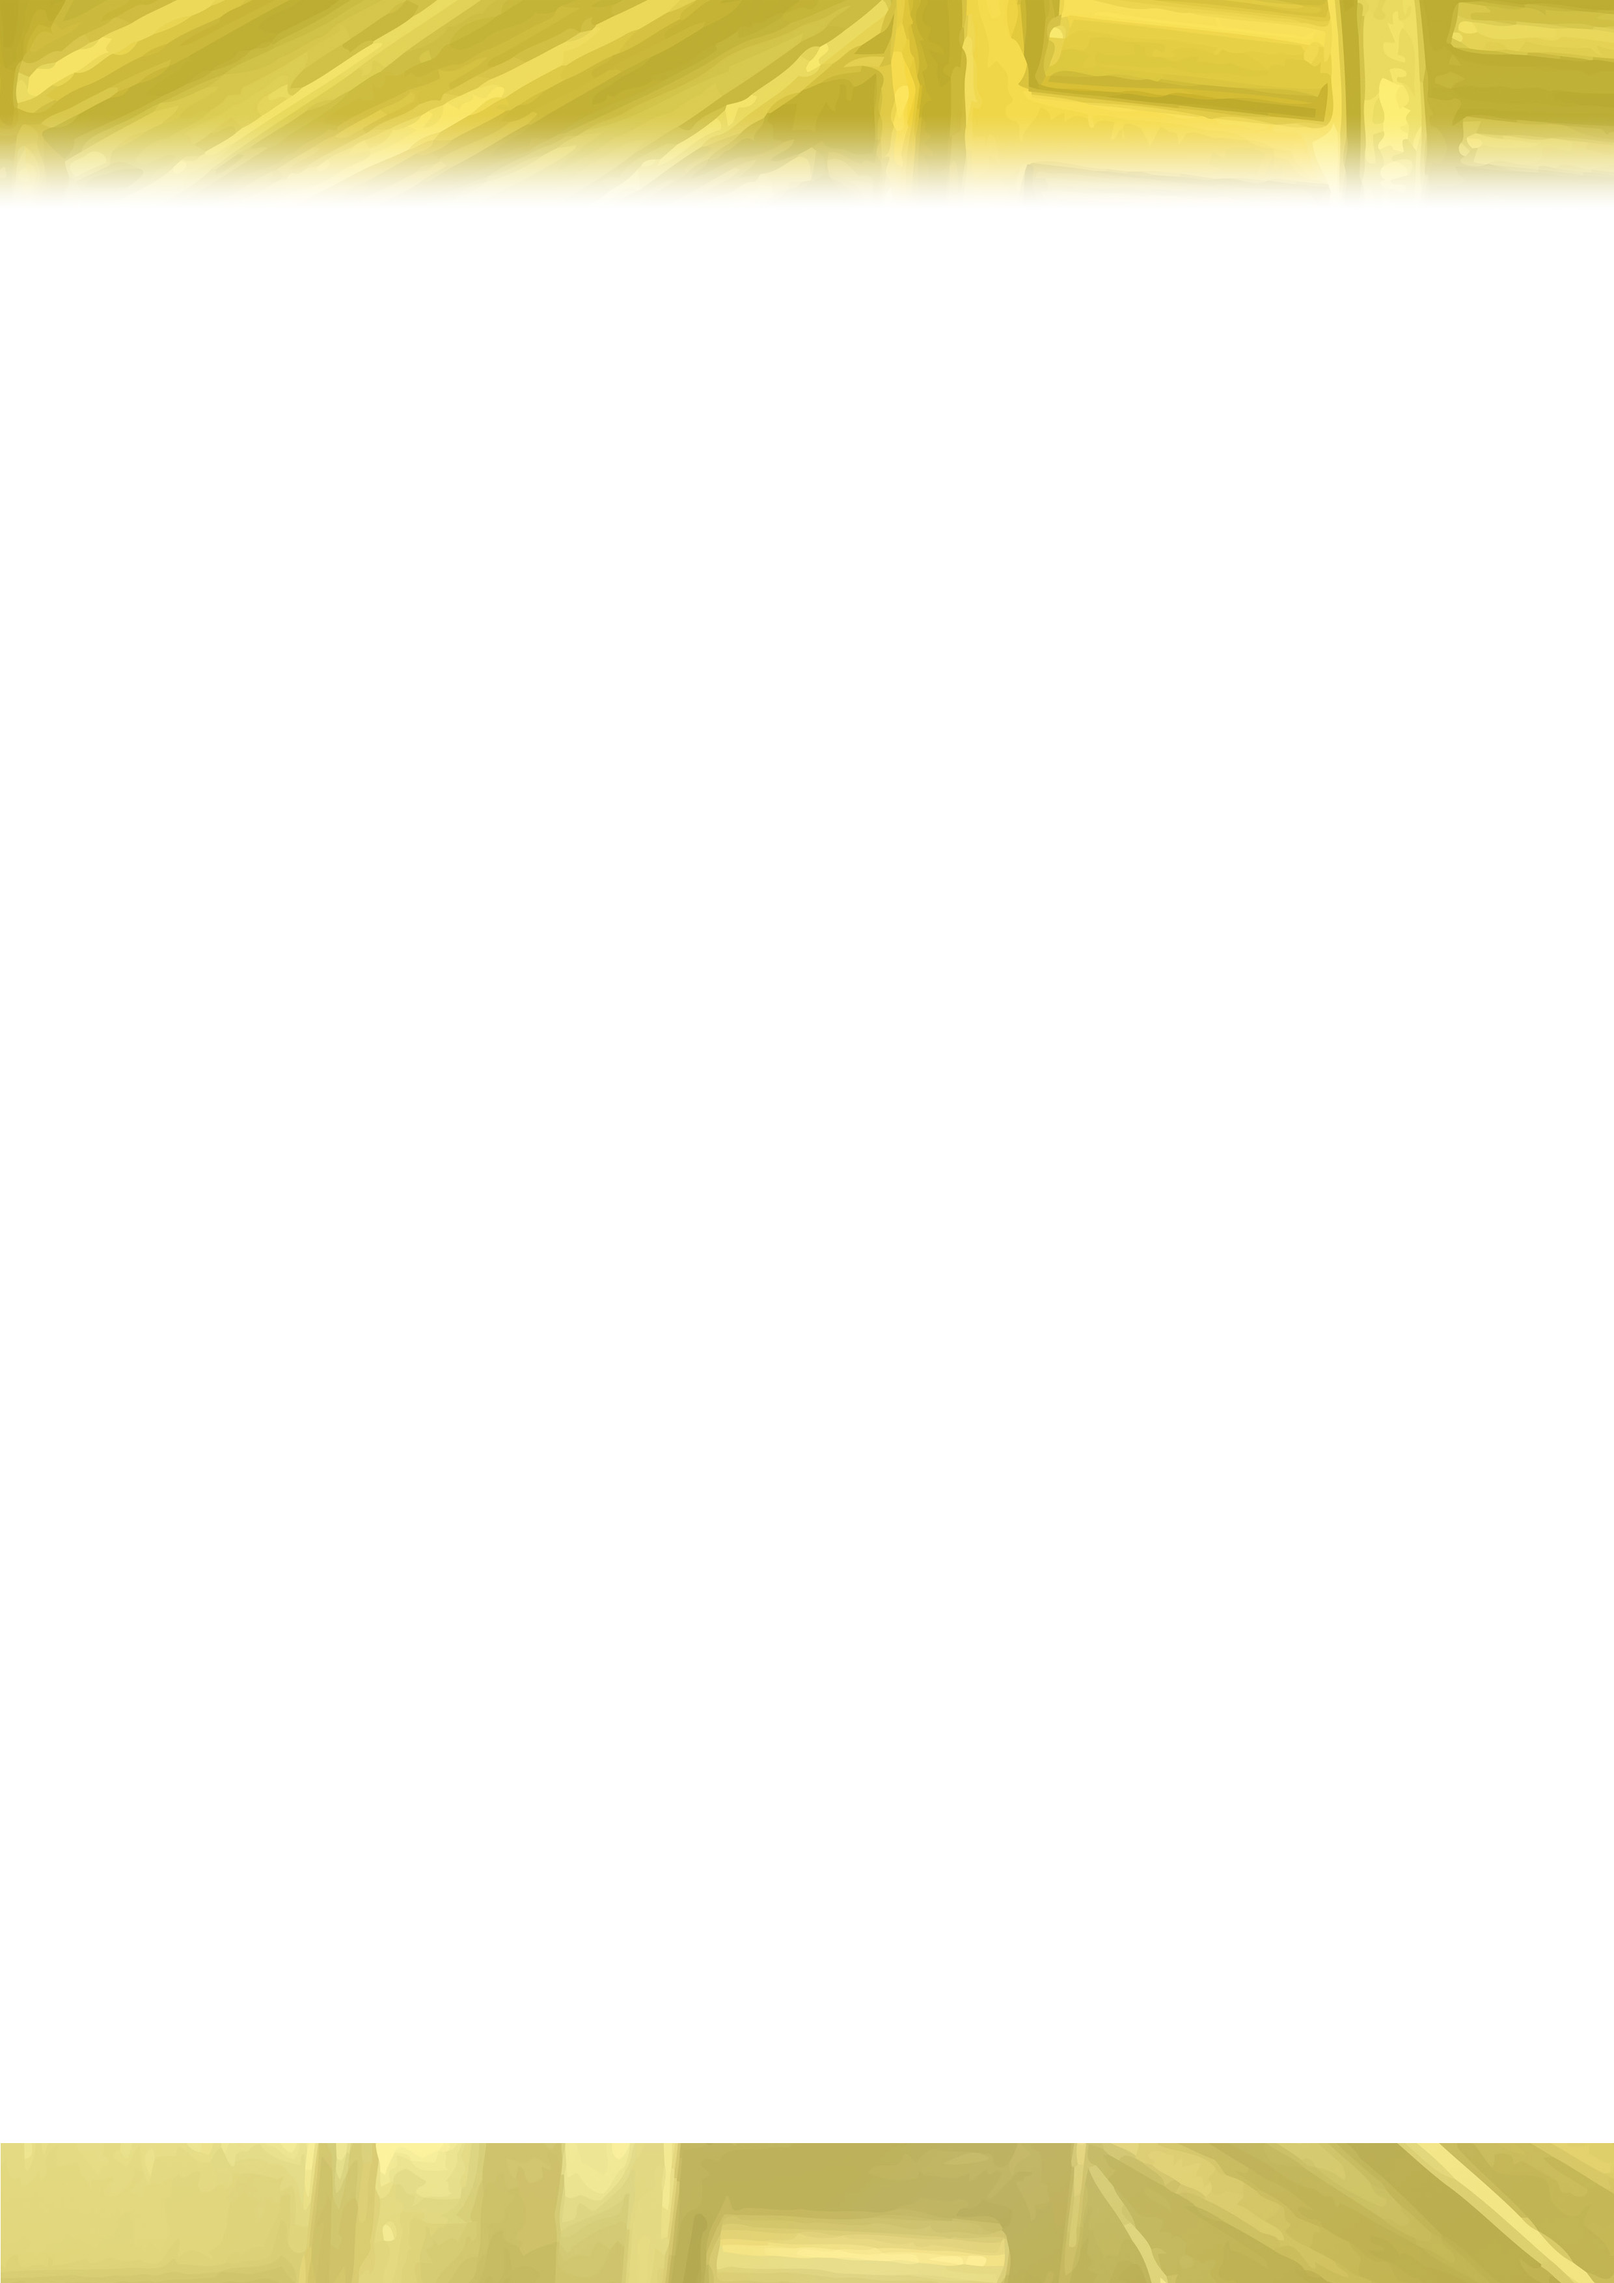
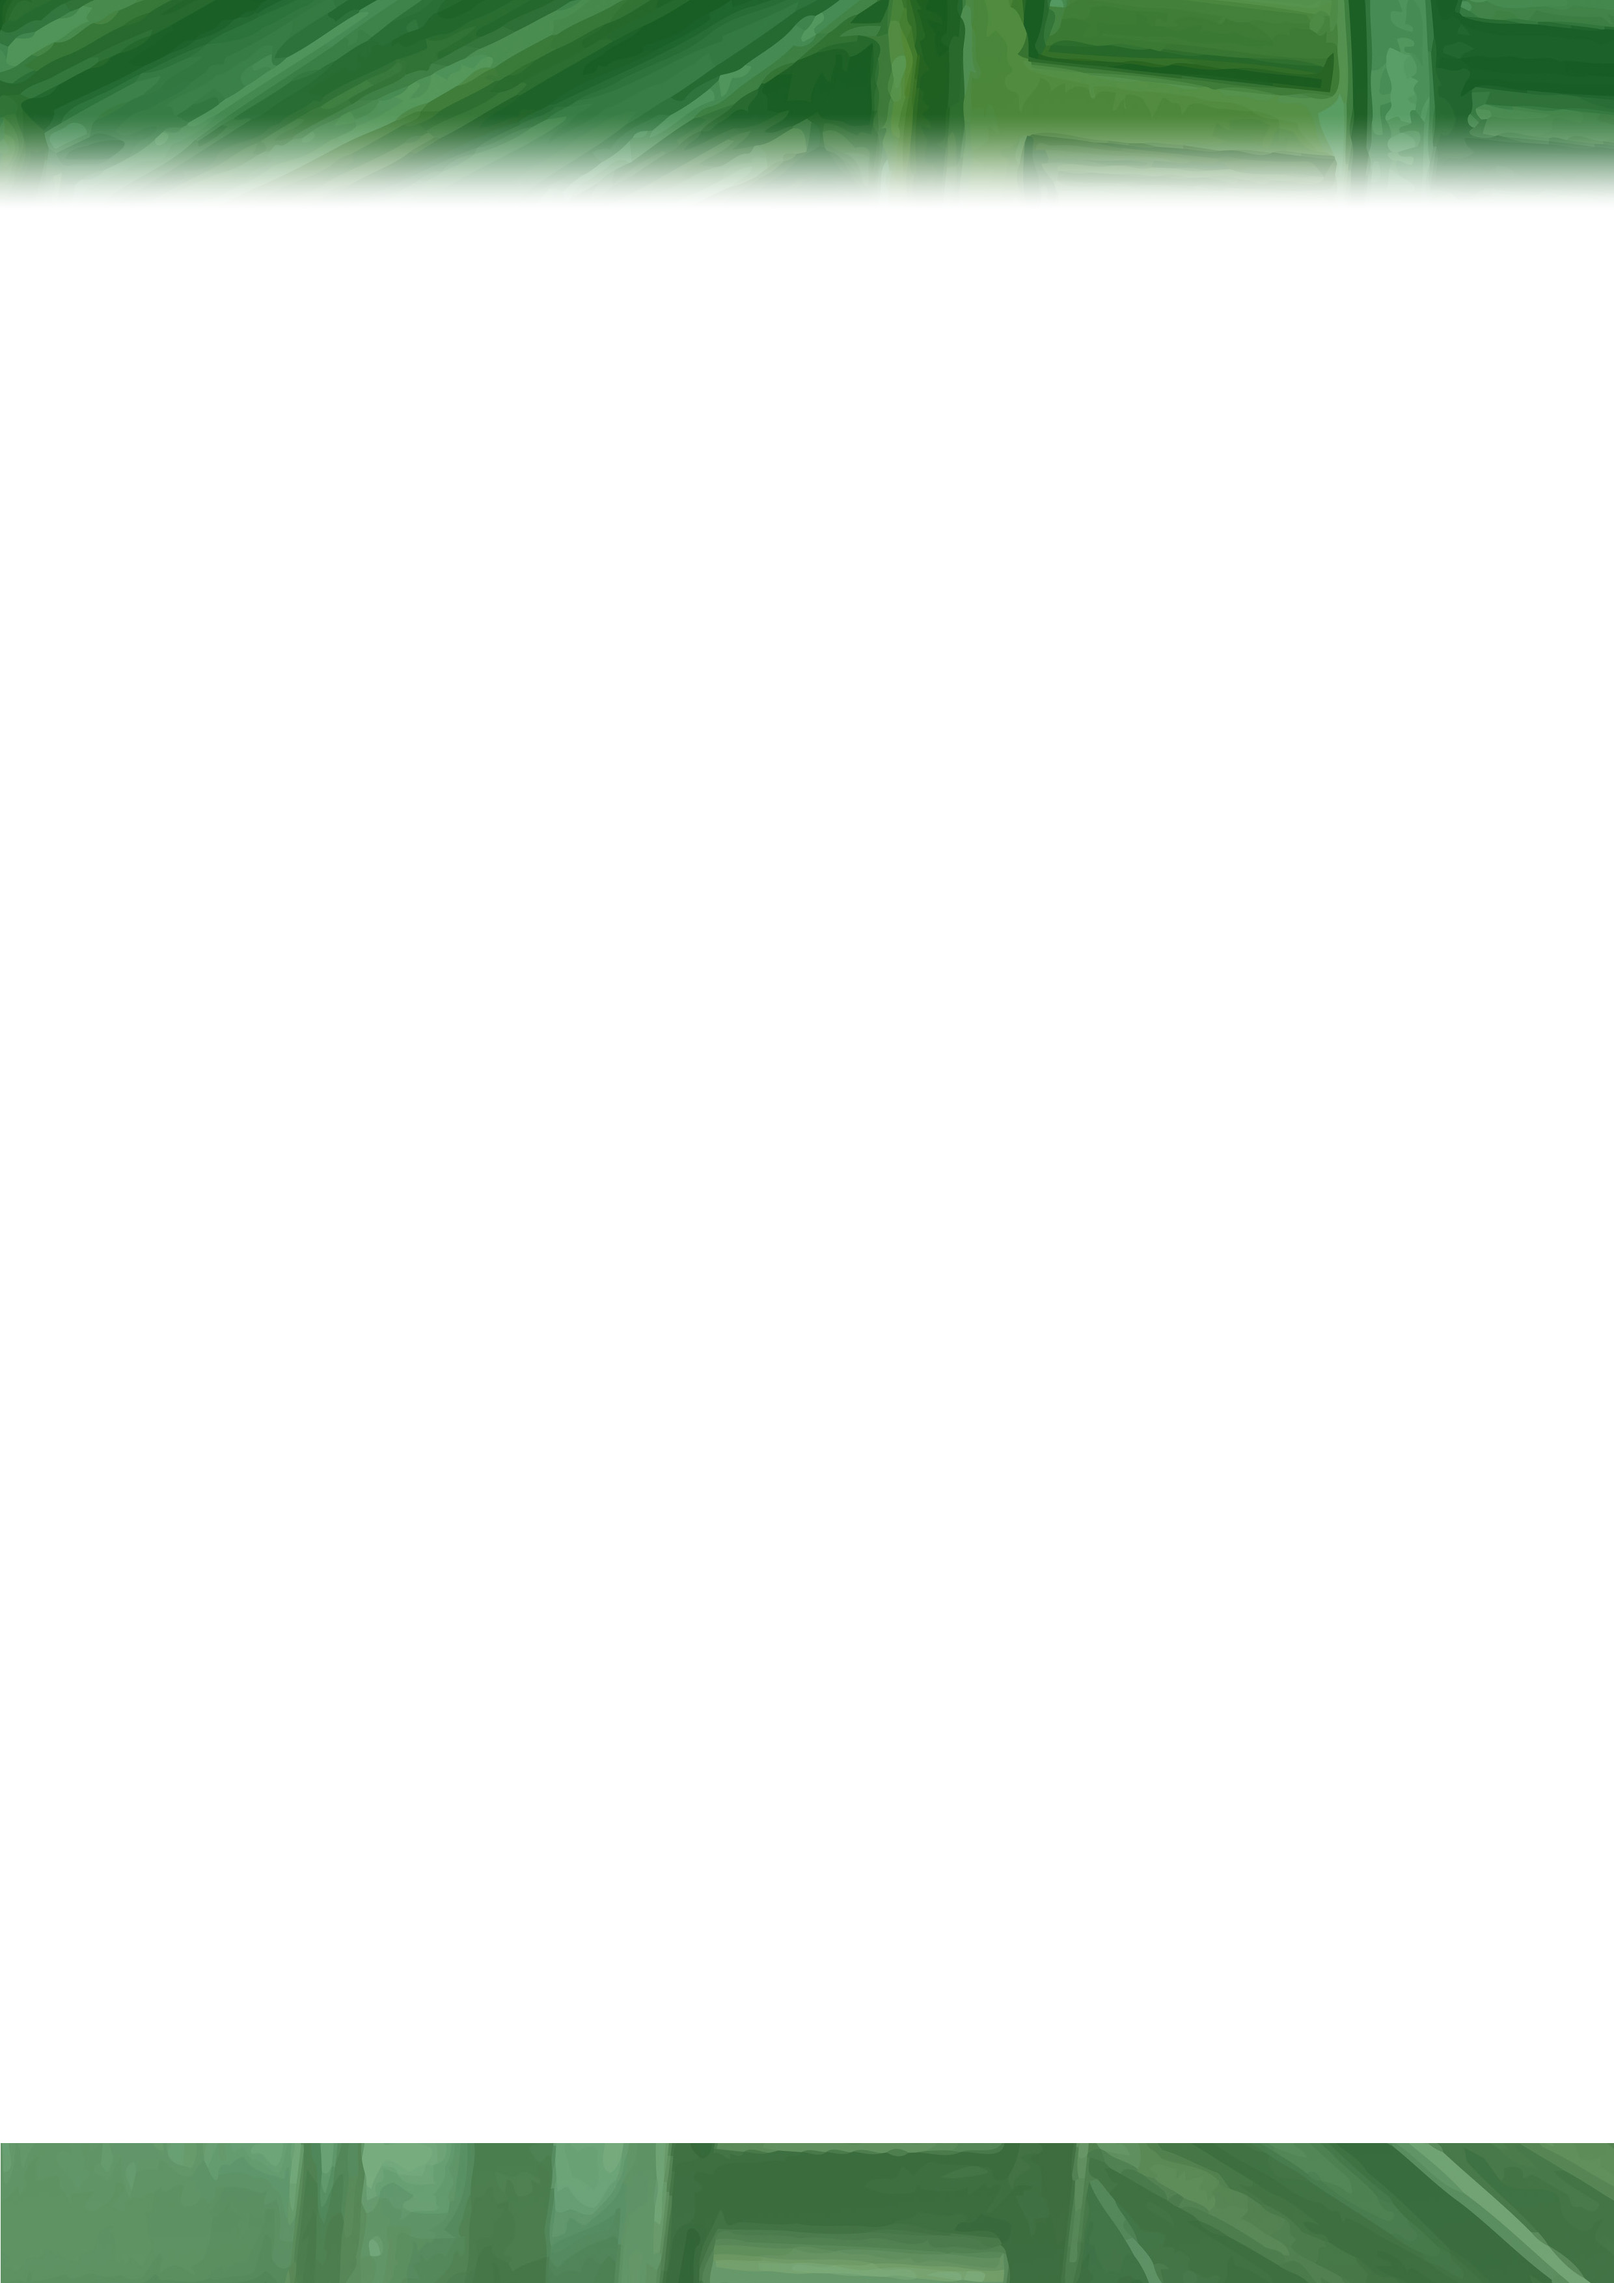
Passage en style 2023 + correction des soucis signalés par Pierre

Changed region(s): [[0.0, 0.9322, 1.0, 1.0], [0.0, 0.0, 1.0, 0.0932]]

diff --git a/main.tex b/main.tex
@@ -118,17 +118,17 @@
 , backgroundcolor=\color{green!10}
 }
 
-\definecolor{rulercolor}{RGB}{12,58,130}
+\definecolor{rulercolor}{RGB}{255,255,255}
 \definecolor{sectioncolor}{RGB}{0,0,0}
-\definecolor{defaultcolor}{RGB}{12,58,130}
+\definecolor{defaultcolor}{RGB}{34,137,82}
 
-\newcommand{\mccyear}{2022}
+\newcommand{\mccyear}{2023}
 
 \oddsidemargin = 1cm
 \evensidemargin = 1cm
 \textwidth = 19cm
 \topmargin = 1.2cm
-\textheight = 24cm
+\textheight = 26cm
 \parskip = 0.1cm
 \parindent = 0.0cm
 
@@ -138,8 +138,8 @@
 \renewcommand{\headrulewidth}{0pt}
 \renewcommand{\footrulewidth}{0pt}
 
-\lhead{\textcolor{rulercolor}{Model Checking Contest @ Petri Nets}\\\ \\}
-\chead{\textcolor{rulercolor}{Page {\thepage}/\pageref{LastPage}}\\\ \\}
+\lhead{\textcolor{rulercolor}{Model Checking Contest}\\\ \\}
+\chead{\textcolor{rulercolor}{Page {\thepage}}\\\ \\}%/\pageref{LastPage}}\\\ \\}
 \rhead{\textcolor{rulercolor}{Property Language Manual}\\\ \\}
 
 \lfoot{}
@@ -283,8 +283,8 @@ Most of the formulas presented to tools have been randomly generated.
 %Only very few of them were written by hand.
 Unfortunately, most of the benchmarks submitted to the contest came without
 example verification properties.
-Writing them by hand is a very time consuming task (there are currently more
-than 250 models!).
+Writing them by hand is a very time consuming task (in 2022, there was 127 models
+and 1617 instances of such models).
 This is a very unfortunate situation but we have not found any way to
 overcome it.
 
